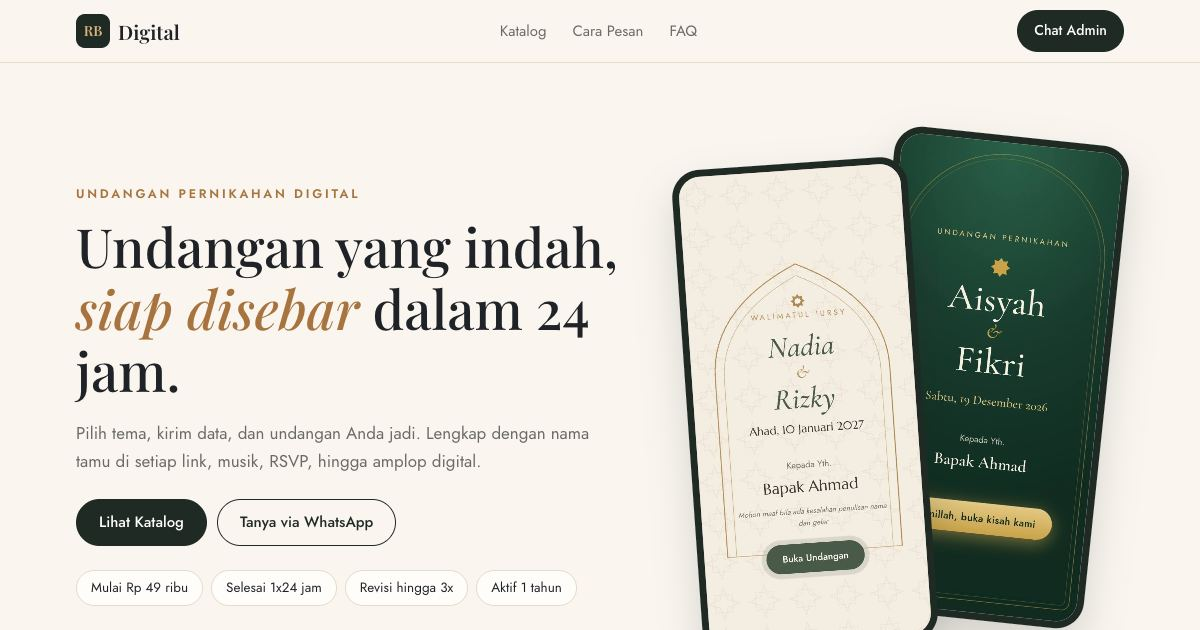
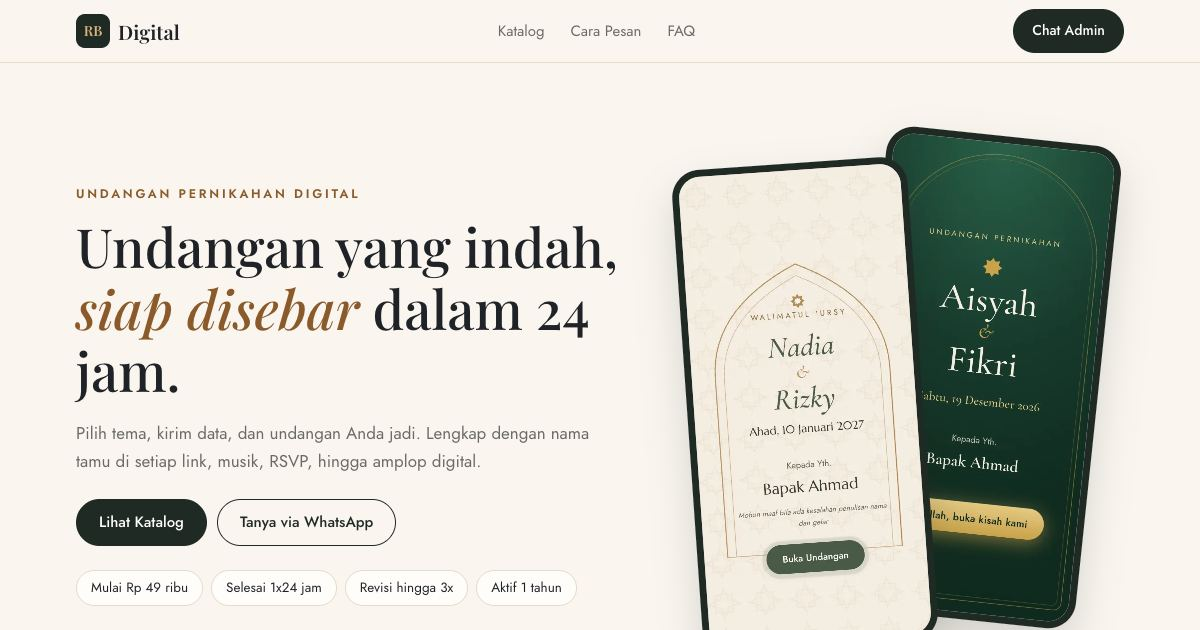
Perbaikan UI/UX sesuai audit UI UX Pro Max
- Kontras teks emas dan abu-abu >= 4.5:1 (katalog, mesin, Syari)
- Tombol minimal 44px, tanda fokus keyboard, efek hover
- Katalog: ikon SVG fitur, filter tema, bar Pesan via WhatsApp,
  animasi muncul saat scroll (hormati kurangi gerakan)
- Gambar katalog WebP (lebih ringan ~50%)

diff --git a/site/index.html b/site/index.html
@@ -48,8 +48,8 @@
           </ul>
         </div>
         <div class="hero-phones" aria-hidden="true">
-          <div class="phone phone-back"><img src="assets/katalog/bercerita.jpg" alt=""></div>
-          <div class="phone phone-front"><img src="assets/katalog/syari.jpg" alt=""></div>
+          <div class="phone phone-back"><img src="assets/katalog/bercerita.webp" width="360" height="740" alt=""></div>
+          <div class="phone phone-front"><img src="assets/katalog/syari.webp" width="360" height="740" alt=""></div>
         </div>
       </div>
     </section>
@@ -57,25 +57,31 @@
     <section id="katalog" class="sec">
       <div class="wrap">
         <p class="eyebrow center">Katalog Tema</p>
-        <h2 class="center">Pilih tema favorit Anda</h2>
+        <h2 class="center reveal">Pilih tema favorit Anda</h2>
         <p class="sub center">Buka demonya untuk mencoba langsung seperti tamu Anda nanti.</p>
+        <div class="filters" role="group" aria-label="Filter tema">
+          <button type="button" class="chip-btn" data-f="semua" aria-pressed="true">Semua</button>
+          <button type="button" class="chip-btn" data-f="Tanpa foto" aria-pressed="false">Tanpa foto</button>
+          <button type="button" class="chip-btn" data-f="Pakai foto" aria-pressed="false">Pakai foto</button>
+          <button type="button" class="chip-btn" data-f="Premium" aria-pressed="false">Premium</button>
+        </div>
         <div class="grid" id="grid"></div>
       </div>
     </section>
 
     <section class="sec sec-soft">
       <div class="wrap">
-        <p class="eyebrow center">Semua Tema Sudah Termasuk</p>
-        <h2 class="center">Fitur lengkap tanpa biaya tambahan</h2>
+        <p class="eyebrow center">Kenapa RB Digital</p>
+        <h2 class="center reveal">Fitur lengkap tanpa biaya tambahan</h2>
         <ul class="features">
-          <li><b>Nama tamu di setiap link</b><span>Tamu disapa dengan namanya sendiri.</span></li>
-          <li><b>Musik latar</b><span>Dari koleksi musik bebas lisensi kami.</span></li>
-          <li><b>RSVP &amp; ucapan</b><span>Tamu konfirmasi hadir dan kirim doa.</span></li>
-          <li><b>Amplop digital</b><span>Nomor rekening/e-wallet sekali salin.</span></li>
-          <li><b>Peta lokasi</b><span>Langsung terbuka di Google Maps.</span></li>
-          <li><b>Hitung mundur</b><span>Plus tombol simpan ke kalender.</span></li>
-          <li><b>Kisah &amp; galeri</b><span>Opsional, sesuai keinginan Anda.</span></li>
-          <li><b>Ringan di HP</b><span>Cepat dibuka dari WhatsApp.</span></li>
+          <li><svg class="ico" viewBox="0 0 24 24" aria-hidden="true"><path d="M20 21a8 8 0 0 0-16 0"/><circle cx="12" cy="7" r="4"/></svg><b>Nama tamu di setiap link</b><span>Tamu disapa dengan namanya sendiri.</span></li>
+          <li><svg class="ico" viewBox="0 0 24 24" aria-hidden="true"><path d="M9 18V5l12-2v13"/><circle cx="6" cy="18" r="3"/><circle cx="18" cy="16" r="3"/></svg><b>Musik latar</b><span>Dari koleksi musik bebas lisensi kami.</span></li>
+          <li><svg class="ico" viewBox="0 0 24 24" aria-hidden="true"><path d="M21 11.1V12a9 9 0 1 1-5.3-8.2"/><path d="m9 11 3 3L22 4"/></svg><b>RSVP &amp; ucapan</b><span>Tamu konfirmasi hadir dan kirim doa.</span></li>
+          <li><svg class="ico" viewBox="0 0 24 24" aria-hidden="true"><rect x="3" y="8" width="18" height="4" rx="1"/><path d="M12 8v13M19 12v9H5v-9M7.5 8a2.5 2.5 0 0 1 0-5C11 3 12 8 12 8s1-5 4.5-5a2.5 2.5 0 0 1 0 5"/></svg><b>Amplop digital</b><span>Nomor rekening/e-wallet sekali salin.</span></li>
+          <li><svg class="ico" viewBox="0 0 24 24" aria-hidden="true"><path d="M12 22s-8-6-8-12a8 8 0 0 1 16 0c0 6-8 12-8 12z"/><circle cx="12" cy="10" r="3"/></svg><b>Peta lokasi</b><span>Langsung terbuka di Google Maps.</span></li>
+          <li><svg class="ico" viewBox="0 0 24 24" aria-hidden="true"><circle cx="12" cy="12" r="9"/><path d="M12 7v5l3 2"/></svg><b>Hitung mundur</b><span>Plus tombol simpan ke kalender.</span></li>
+          <li><svg class="ico" viewBox="0 0 24 24" aria-hidden="true"><rect x="3" y="3" width="18" height="18" rx="2"/><circle cx="9" cy="9" r="2"/><path d="m21 15-5-5L5 21"/></svg><b>Kisah &amp; galeri</b><span>Opsional, sesuai keinginan Anda.</span></li>
+          <li><svg class="ico" viewBox="0 0 24 24" aria-hidden="true"><path d="M13 2 3 14h9l-1 8 10-12h-9z"/></svg><b>Ringan di HP</b><span>Cepat dibuka dari WhatsApp.</span></li>
         </ul>
       </div>
     </section>
@@ -83,7 +89,7 @@
     <section class="sec">
       <div class="wrap narrow">
         <p class="eyebrow center">Tambahan</p>
-        <h2 class="center">Biaya tambahan (opsional)</h2>
+        <h2 class="center reveal">Biaya tambahan (opsional)</h2>
         <table class="addons">
           <tr><td>Hashtag custom<span>Kami buatkan 5-10 pilihan hashtag</span></td><td>Rp 15.000</td></tr>
           <tr><td>Link kedua<span>Untuk sesi 2 atau ngunduh mantu</span></td><td>Rp 35.000</td></tr>
@@ -94,7 +100,7 @@
     <section id="cara-pesan" class="sec sec-dark">
       <div class="wrap">
         <p class="eyebrow center">Cara Pesan</p>
-        <h2 class="center">5 langkah, undangan jadi</h2>
+        <h2 class="center reveal">5 langkah, undangan jadi</h2>
         <ol class="steps">
           <li><b>Pilih tema</b><span>Coba demonya dan pilih yang paling cocok.</span></li>
           <li><b>Chat admin</b><span>Klik tombol Pesan, pesan WhatsApp otomatis menyebut tema pilihan Anda.</span></li>
@@ -108,7 +114,7 @@
     <section id="faq" class="sec">
       <div class="wrap narrow">
         <p class="eyebrow center">FAQ</p>
-        <h2 class="center">Pertanyaan yang sering ditanyakan</h2>
+        <h2 class="center reveal">Pertanyaan yang sering ditanyakan</h2>
         <div class="faq">
           <details><summary>Berapa lama undangan selesai?</summary><p>Maksimal 1x24 jam setelah pembayaran dan data lengkap kami terima.</p></details>
           <details><summary>Apakah bisa revisi?</summary><p>Bisa, hingga 3 kali revisi untuk koreksi data dan teks.</p></details>
@@ -138,9 +144,12 @@
     </div>
   </footer>
 
-  <a class="wa-float wa-link" data-text="Halo RB Digital, saya mau tanya tentang undangan digital." target="_blank" rel="noopener" aria-label="Chat admin via WhatsApp">
-    <svg viewBox="0 0 24 24" aria-hidden="true"><path d="M4 4h16a2 2 0 0 1 2 2v10a2 2 0 0 1-2 2H9l-5 4v-4a2 2 0 0 1-2-2V6a2 2 0 0 1 2-2zm3 6.5a1.5 1.5 0 1 0 0 .01zm5 0a1.5 1.5 0 1 0 0 .01zm5 0a1.5 1.5 0 1 0 0 .01z"/></svg>
-  </a>
+  <div class="cta-bar">
+    <a class="btn btn-dark wa-link" data-text="Halo RB Digital, saya mau pesan undangan digital." target="_blank" rel="noopener">
+      <svg viewBox="0 0 24 24" aria-hidden="true"><path d="M21 12a9 9 0 0 1-13.4 7.9L3 21l1.1-4.6A9 9 0 1 1 21 12z"/></svg>
+      Pesan via WhatsApp
+    </a>
+  </div>
 
   <script src="katalog.js"></script>
   <script>
@@ -167,6 +176,8 @@
           img.src = t.gambar;
           img.alt = "Tampilan tema " + t.nama;
           img.loading = "lazy";
+          img.width = 360;
+          img.height = 740;
           ph.appendChild(img);
         } else {
           ph.appendChild(el("span", "soon-label", "Segera hadir"));
@@ -196,8 +207,36 @@
         }
         body.appendChild(act);
         c.appendChild(body);
+        c.dataset.tag = t.tag;
+        c.classList.add("reveal");
         grid.appendChild(c);
       });
+
+      // Filter tema
+      document.querySelectorAll(".chip-btn").forEach(function (b) {
+        b.addEventListener("click", function () {
+          var f = b.dataset.f;
+          document.querySelectorAll(".chip-btn").forEach(function (x) { x.setAttribute("aria-pressed", String(x === b)); });
+          grid.querySelectorAll(".theme").forEach(function (c) { c.hidden = f !== "semua" && c.dataset.tag !== f; });
+        });
+      });
+
+      // Muncul bertahap saat di-scroll (dimatikan bila pengguna memilih kurangi gerakan)
+      document.querySelectorAll(".features li, .steps li, .faq details").forEach(function (x) { x.classList.add("reveal"); });
+      var items = document.querySelectorAll(".reveal");
+      if (!("IntersectionObserver" in window) || matchMedia("(prefers-reduced-motion: reduce)").matches) {
+        items.forEach(function (x) { x.classList.add("in"); });
+      } else {
+        var io = new IntersectionObserver(function (en) {
+          en.forEach(function (e, i) {
+            if (!e.isIntersecting) return;
+            e.target.style.transitionDelay = (i % 4) * 70 + "ms";
+            e.target.classList.add("in");
+            io.unobserve(e.target);
+          });
+        }, { rootMargin: "0px 0px -6% 0px" });
+        items.forEach(function (x) { io.observe(x); });
+      }
     })();
   </script>
 </body>

diff --git a/site/engine/undangan.css b/site/engine/undangan.css
@@ -6,6 +6,7 @@
   --primary: #4a5a48;
   --primary-ink: #fffdf9;
   --accent: #b08d57;
+  --accent-text: var(--accent); /* emas untuk teks kecil; tema boleh menggelapkan agar kontras >= 4.5:1 */
   --ink: #3a382f;
   --muted: #7d7a6c;
   --line: #e6dccb;
@@ -32,6 +33,10 @@ body {
 }
 body.locked { overflow: hidden; height: 100vh; }
 button { font: inherit; cursor: pointer; }
+a, button, summary, label { cursor: pointer; }
+:focus-visible { outline: 3px solid var(--accent); outline-offset: 3px; border-radius: 6px; }
+.btn { transition: transform 0.15s ease, opacity 0.15s ease, box-shadow 0.2s ease; }
+.btn:hover { opacity: 0.92; }
 img { max-width: 100%; display: block; }
 [hidden] { display: none !important; }
 
@@ -61,7 +66,7 @@ img { max-width: 100%; display: block; }
 .btn:active { transform: scale(0.97); }
 .btn-primary { background: var(--primary); color: var(--primary-ink); }
 .btn-ghost { background: transparent; color: var(--primary); border-color: var(--primary); }
-.btn-sm { min-height: 38px; padding: 6px 18px; font-size: 14px; }
+.btn-sm { min-height: 44px; padding: 8px 20px; font-size: 14px; }
 
 /* ---------- Cover ---------- */
 .cover {
@@ -89,7 +94,7 @@ img { max-width: 100%; display: block; }
   font-size: 12px;
   letter-spacing: 0.3em;
   text-transform: uppercase;
-  color: var(--accent);
+  color: var(--accent-text);
 }
 .couple {
   margin: 14px 0 8px;
@@ -117,13 +122,13 @@ img { max-width: 100%; display: block; }
 /* ---------- Section ---------- */
 .sec { position: relative; padding: 64px 24px; text-align: center; }
 .sec-head { margin-bottom: 26px; }
-.sec-sub { margin: 0; font-size: 12px; letter-spacing: 0.25em; text-transform: uppercase; color: var(--accent); }
+.sec-sub { margin: 0; font-size: 12px; letter-spacing: 0.25em; text-transform: uppercase; color: var(--accent-text); }
 .sec-title { margin: 6px 0 0; font-family: var(--font-display); font-weight: 400; font-size: 32px; line-height: 1.2; color: var(--primary); }
 .sec-desc { margin: 0 auto 18px; max-width: 360px; color: var(--muted); font-size: 15px; }
 
 .sec-hero { min-height: 92vh; display: flex; align-items: center; justify-content: center; }
 .hero-inner { position: relative; }
-.hashtag { margin: 18px 0 0; font-size: 14px; letter-spacing: 0.08em; color: var(--accent); }
+.hashtag { margin: 18px 0 0; font-size: 14px; letter-spacing: 0.08em; color: var(--accent-text); }
 
 .arabic { font-family: var(--font-arabic); direction: rtl; line-height: 2; color: var(--primary); }
 .bismillah { font-size: 28px; margin: 0 0 18px; }
@@ -138,7 +143,7 @@ img { max-width: 100%; display: block; }
 }
 .ayat .arabic { font-size: 22px; margin: 0 0 12px; }
 .ayat-arti { margin: 0; font-size: 14.5px; font-style: italic; color: var(--ink); }
-.ayat cite { display: block; margin-top: 10px; font-style: normal; font-size: 13px; letter-spacing: 0.1em; color: var(--accent); }
+.ayat cite { display: block; margin-top: 10px; font-style: normal; font-size: 13px; letter-spacing: 0.1em; color: var(--accent-text); }
 
 .person { padding: 6px 0; }
 .person-photo {
@@ -194,7 +199,7 @@ img { max-width: 100%; display: block; }
   background: var(--accent);
   box-shadow: 0 0 0 4px var(--bg);
 }
-.tl-date { margin: 0; font-size: 12px; letter-spacing: 0.15em; text-transform: uppercase; color: var(--accent); }
+.tl-date { margin: 0; font-size: 12px; letter-spacing: 0.15em; text-transform: uppercase; color: var(--accent-text); }
 .tl-title { margin: 2px 0 6px; font-family: var(--font-display); font-weight: 400; font-size: 22px; color: var(--primary); }
 .tl-text { margin: 0; font-size: 15px; color: var(--muted); }
 
@@ -247,7 +252,7 @@ img { max-width: 100%; display: block; }
   border-radius: var(--radius);
 }
 .gift p { margin: 0; }
-.gift-bank { font-size: 12px; letter-spacing: 0.1em; text-transform: uppercase; color: var(--accent); }
+.gift-bank { font-size: 12px; letter-spacing: 0.1em; text-transform: uppercase; color: var(--accent-text); }
 .gift-num { font-size: 20px; letter-spacing: 0.06em; font-weight: 600; color: var(--ink); }
 .gift-name { font-size: 13px; color: var(--muted); }
 .gift .btn { flex-shrink: 0; }

diff --git a/site/katalog.css b/site/katalog.css
@@ -4,7 +4,8 @@
   --ink: #1f2328;
   --muted: #6b6a66;
   --dark: #1f2a24;
-  --accent: #a7743f;
+  --accent: #8a5a2b; /* teks emas, kontras >= 4.5:1 */
+  --accent-deco: #a7743f;
   --accent-soft: #d9b27c;
   --line: #e6dccb;
   --card: #fffdf9;
@@ -25,6 +26,8 @@ body {
 }
 img { max-width: 100%; display: block; }
 a { color: inherit; }
+a, button, summary { cursor: pointer; }
+:focus-visible { outline: 3px solid var(--accent-deco); outline-offset: 3px; border-radius: 6px; }
 h1, h2, h3 { font-family: var(--font-display); font-weight: 500; line-height: 1.15; margin: 0; }
 .wrap { max-width: 1080px; margin: 0 auto; padding: 0 16px; }
 .narrow { max-width: 720px; }
@@ -50,7 +53,7 @@ h1, h2, h3 { font-family: var(--font-display); font-weight: 500; line-height: 1.
 .btn-dark:hover { background: #2c3b33; }
 .btn-line { border-color: var(--dark); color: var(--dark); background: transparent; }
 .btn-line:hover { background: var(--soft); }
-.btn-sm { min-height: 40px; padding: 8px 16px; font-size: 14px; }
+.btn-sm { min-height: 44px; padding: 8px 18px; font-size: 14px; }
 
 /* ---------- Header ---------- */
 .top {
@@ -181,27 +184,58 @@ h1, h2, h3 { font-family: var(--font-display); font-weight: 500; line-height: 1.
 .sec-cta { background: var(--soft); }
 .sec-cta .btn { margin-top: 22px; }
 
-.foot { padding: 36px 0 96px; font-size: 14.5px; }
+.foot { padding: 36px 0 110px; font-size: 14.5px; }
 .foot p { margin: 0 0 6px; }
 .foot .logo { margin-bottom: 12px; }
 
-.wa-float {
+/* Bar pesan: menempel di bawah layar HP, tombol mengambang di desktop */
+.cta-bar {
   position: fixed;
-  right: 16px;
-  bottom: max(16px, env(safe-area-inset-bottom));
+  left: 0;
+  right: 0;
+  bottom: 0;
   z-index: 30;
-  width: 56px;
-  height: 56px;
-  border-radius: 50%;
-  display: grid;
-  place-items: center;
-  background: var(--dark);
-  box-shadow: 0 8px 22px rgba(31, 42, 36, 0.3);
+  padding: 10px 16px max(10px, env(safe-area-inset-bottom));
+  background: color-mix(in srgb, var(--bg) 94%, transparent);
+  backdrop-filter: blur(8px);
+  border-top: 1px solid var(--line);
 }
-.wa-float svg { width: 26px; height: 26px; fill: var(--accent-soft); }
+.cta-bar .btn { width: 100%; gap: 10px; min-height: 50px; box-shadow: 0 6px 18px rgba(31, 42, 36, 0.25); }
+.cta-bar svg { width: 20px; height: 20px; fill: none; stroke: var(--accent-soft); stroke-width: 2; }
+
+.filters { display: flex; flex-wrap: wrap; justify-content: center; gap: 8px; margin-top: 24px; }
+.chip-btn {
+  min-height: 44px;
+  padding: 8px 18px;
+  border-radius: 999px;
+  border: 1px solid var(--line);
+  background: var(--card);
+  color: var(--ink);
+  font: inherit;
+  font-size: 14px;
+  transition: background 0.2s ease, color 0.2s ease, border-color 0.2s ease;
+}
+.chip-btn:hover { border-color: var(--dark); }
+.chip-btn[aria-pressed="true"] { background: var(--dark); color: #fff; border-color: var(--dark); }
+.grid { margin-top: 20px; }
+.theme[hidden] { display: none; }
+.theme { transition: box-shadow 0.25s ease, transform 0.25s ease; }
+.theme:hover { box-shadow: 0 12px 28px rgba(31, 42, 36, 0.1); }
+
+.ico { width: 28px; height: 28px; margin-bottom: 10px; fill: none; stroke: var(--accent-deco); stroke-width: 1.6; stroke-linecap: round; stroke-linejoin: round; }
+
+.reveal { opacity: 0; transform: translateY(18px); transition: opacity 0.6s ease, transform 0.6s ease; }
+.reveal.in { opacity: 1; transform: none; }
+@media (prefers-reduced-motion: reduce) {
+  html { scroll-behavior: auto; }
+  .reveal { opacity: 1; transform: none; transition: none; }
+  .btn, .theme, .chip-btn { transition: none; }
+}
 
 @media (min-width: 720px) {
   .nav { display: flex; }
+  .cta-bar { left: auto; right: 24px; bottom: 24px; padding: 0; background: none; border: 0; backdrop-filter: none; }
+  .cta-bar .btn { width: auto; padding: 12px 24px; }
   .grid { grid-template-columns: 1fr 1fr; }
   .features { grid-template-columns: repeat(4, 1fr); }
   .steps { grid-template-columns: repeat(5, 1fr); }

diff --git a/site/katalog.js b/site/katalog.js
@@ -10,7 +10,7 @@ window.KATALOG = {
       tag: "Tanpa foto",
       deskripsi: "Krem dan hijau sage dengan lengkung mihrab. Cocok untuk yang tidak memajang foto.",
       demo: "tema/syari/?to=Bapak%20Ahmad",
-      gambar: "assets/katalog/syari.jpg",
+      gambar: "assets/katalog/syari.webp",
       siap: true,
     },
     {
@@ -20,7 +20,7 @@ window.KATALOG = {
       tag: "Premium",
       deskripsi: "Kisah kalian dalam 5 bab seperti Instagram Story, ditutup ayat Al-Qur'an.",
       demo: "tema/bercerita/?to=Bapak%20Ahmad",
-      gambar: "assets/katalog/bercerita.jpg",
+      gambar: "assets/katalog/bercerita.webp",
       siap: true,
     },
     {

diff --git a/site/tema/bercerita/theme.css b/site/tema/bercerita/theme.css
@@ -28,6 +28,7 @@ body {
   -webkit-font-smoothing: antialiased;
 }
 button { font: inherit; cursor: pointer; }
+:focus-visible { outline: 3px solid var(--gold-soft); outline-offset: 3px; }
 [hidden] { display: none !important; }
 
 /* ---------- Layar ---------- */
@@ -200,8 +201,8 @@ button { font: inherit; cursor: pointer; }
   color: var(--gold-soft);
 }
 .icon-btn {
-  width: 40px;
-  height: 40px;
+  width: 44px;
+  height: 44px;
   border-radius: 50%;
   border: 1px solid rgba(201, 162, 74, 0.4);
   background: rgba(15, 42, 31, 0.5);

diff --git a/site/tema/syari/tema.css b/site/tema/syari/tema.css
@@ -6,8 +6,9 @@
   --primary: #4a5a48;
   --primary-ink: #fffcf6;
   --accent: #b08d57;
+  --accent-text: #7f6234;
   --ink: #3a382f;
-  --muted: #77746a;
+  --muted: #66635a;
   --line: #e7dcc8;
   --cover-bg: #f4ede1;
   --font-display: "Marcellus", Georgia, serif;
